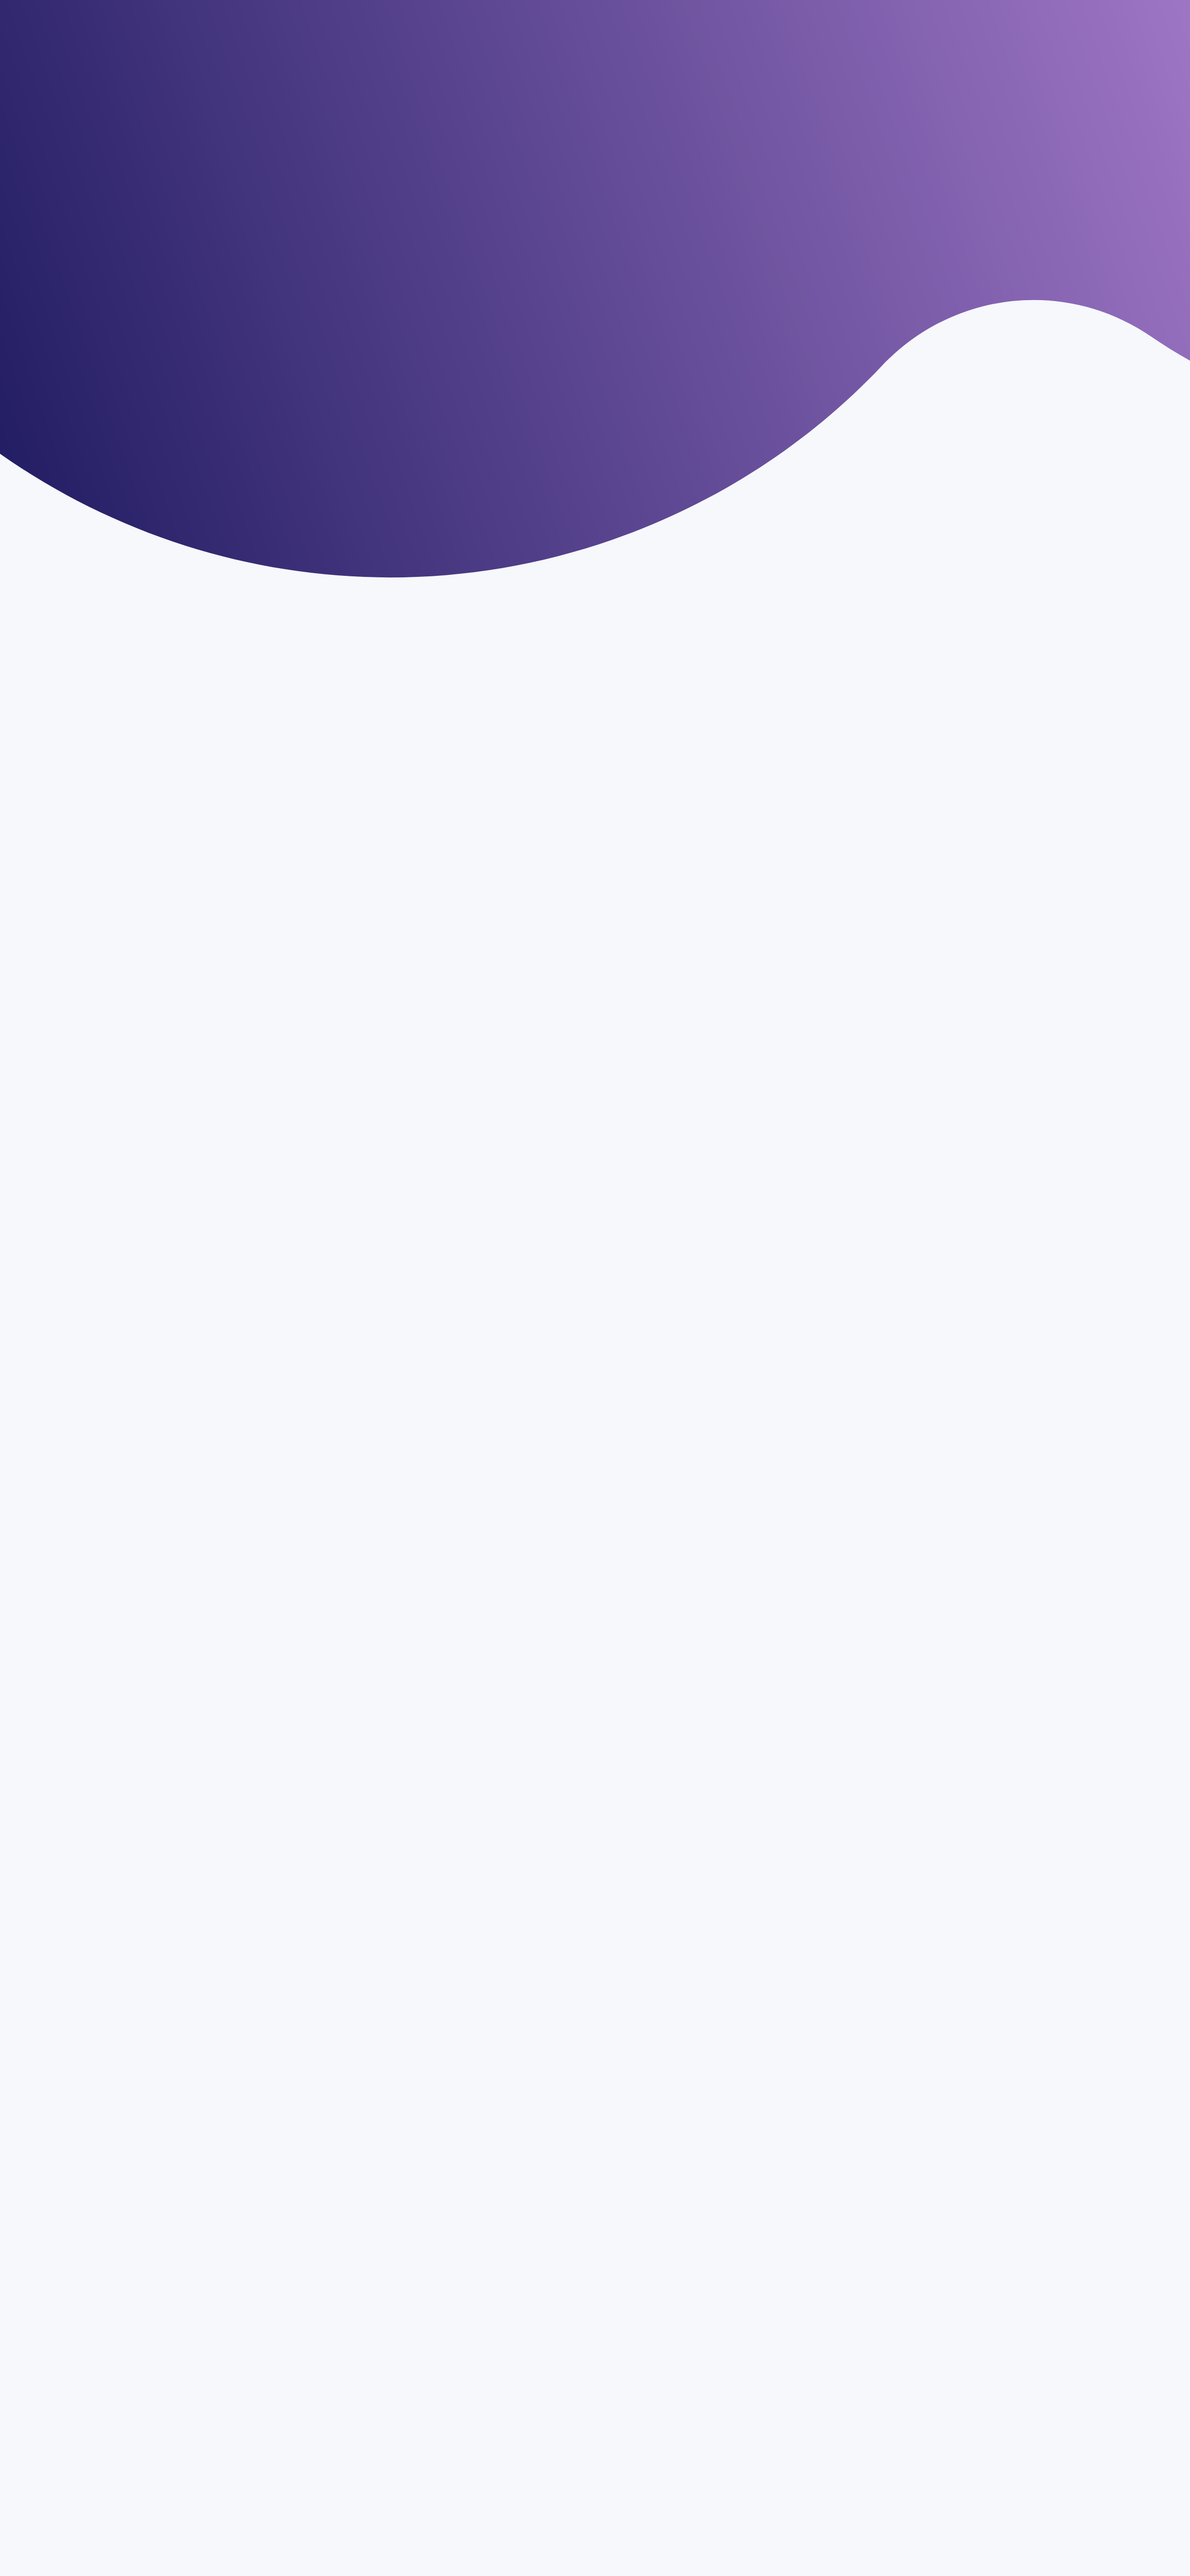
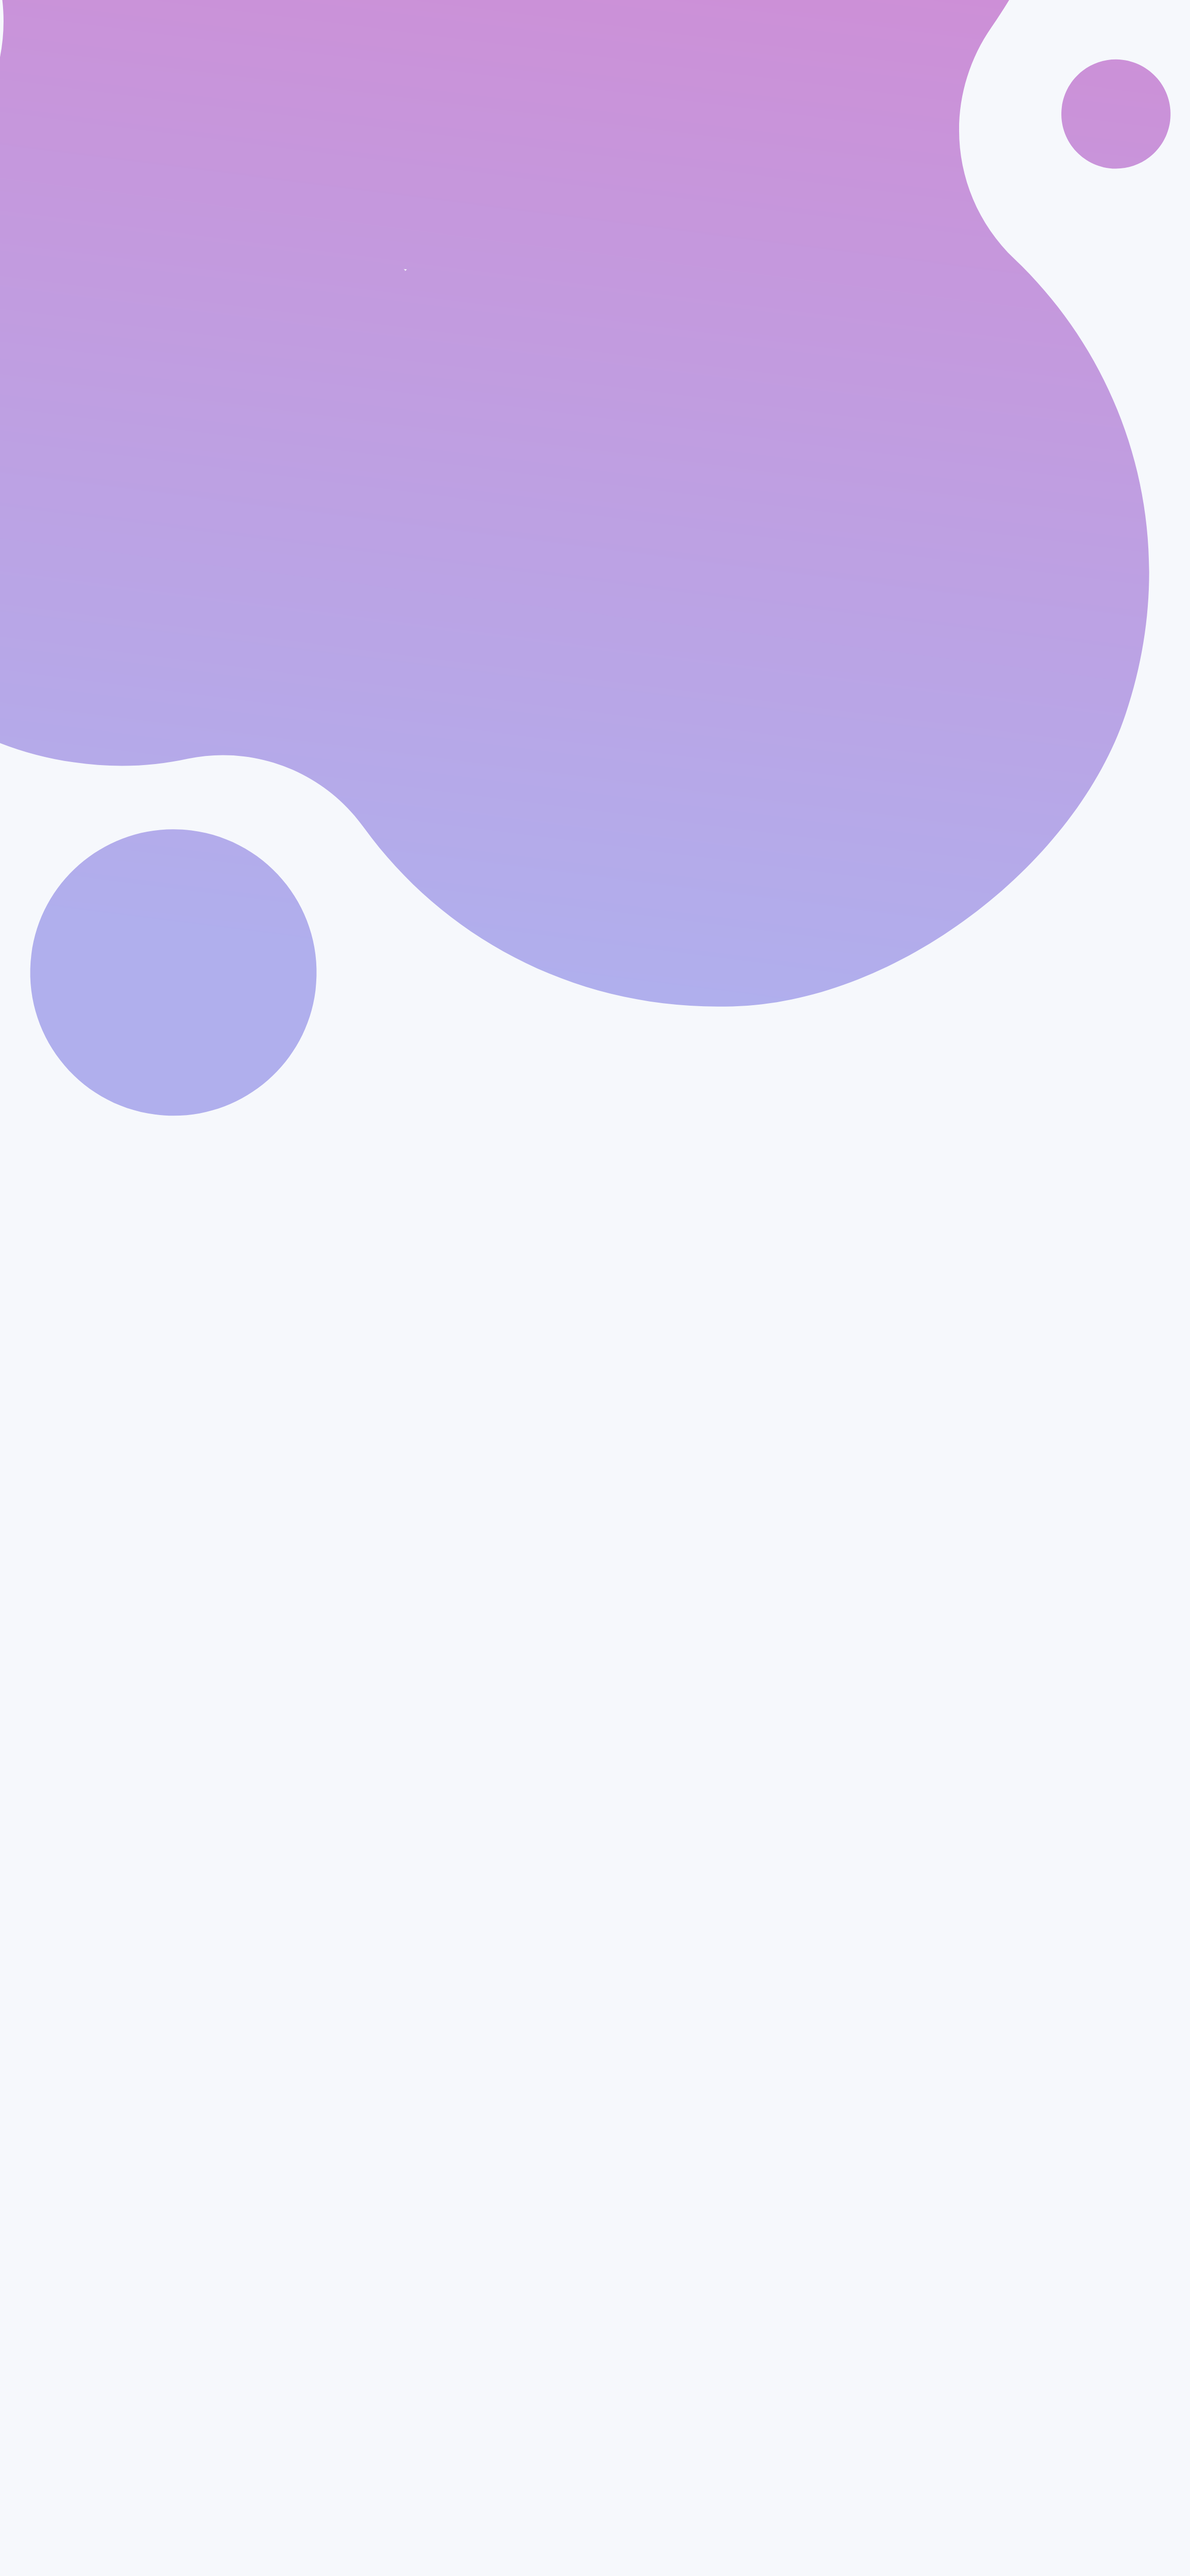
Added first name to user when registered

diff --git a/src/theme/variables.scss b/src/theme/variables.scss
@@ -52,12 +52,26 @@
   --ion-color-fourth-shade: #c1c0dd;
   --ion-color-fourth-tint: #dfdefb;
 
-  --ion-color-fifth: #ffc7e5;
-  --ion-color-fifth-rgb: 255, 199, 229;
-  --ion-color-fifth-contrast: #000000;
-  --ion-color-fifth-contrast-rgb: 0, 0, 0;
-  --ion-color-fifth-shade: #e0afca;
-  --ion-color-fifth-tint: #ffcde8;
+  --ion-color-light-pink: #ffc7e5;
+  --ion-color-light-pink-rgb: 255, 199, 229;
+  --ion-color-light-pink-contrast: #000000;
+  --ion-color-light-pink-contrast-rgb: 0, 0, 0;
+  --ion-color-light-pink-shade: #e0afca;
+  --ion-color-light-pink-tint: #ffcde8;
+
+  --ion-color-pink: #ce78cb;
+  --ion-color-pink-rgb: 206, 120, 203;
+  --ion-color-pink-contrast: #000000;
+  --ion-color-pink-contrast-rgb: 0, 0, 0;
+  --ion-color-pink-shade: #b56ab3;
+  --ion-color-pink-tint: #d386d0;
+
+  // --ion-color-pink: #f76db9;
+  // --ion-color-pink-rgb: 247, 109, 185;
+  // --ion-color-pink-contrast: #000000;
+  // --ion-color-pink-contrast-rgb: 0, 0, 0;
+  // --ion-color-pink-shade: #d960a3;
+  // --ion-color-pink-tint: #f87cc0;
 
   --ion-color-success: #67d083;
   --ion-color-success-rgb: 103, 208, 131;
@@ -136,6 +150,20 @@
     --ion-color-fourth-contrast-rgb: 0, 0, 0;
     --ion-color-fourth-shade: #e0d6c7;
     --ion-color-fourth-tint: #fff4e5;
+
+    --ion-color-light-pink: #ffc7e5;
+    --ion-color-light-pink-rgb: 255, 199, 229;
+    --ion-color-light-pink-contrast: #000000;
+    --ion-color-light-pink-contrast-rgb: 0, 0, 0;
+    --ion-color-light-pink-shade: #e0afca;
+    --ion-color-light-pink-tint: #ffcde8;
+
+    --ion-color-pink: #ce78cb;
+    --ion-color-pink-rgb: 206, 120, 203;
+    --ion-color-pink-contrast: #000000;
+    --ion-color-pink-contrast-rgb: 0, 0, 0;
+    --ion-color-pink-shade: #b56ab3;
+    --ion-color-pink-tint: #d386d0;
 
     --ion-color-success: #67d083;
     --ion-color-success-rgb: 103, 208, 131;

diff --git a/src/app/services/auth.service.ts b/src/app/services/auth.service.ts
@@ -7,6 +7,7 @@ import {
   signInWithEmailAndPassword,
   signInWithPopup,
   UserCredential,
+  updateProfile,
   signOut,
 } from '@angular/fire/auth';
 
@@ -22,36 +23,44 @@ export class AuthService {
     return signInWithPopup(this.auth, new GoogleAuthProvider());
   }
 
-  registerWithEmail(email: string, password: string): Promise<UserCredential> {
+  registerWithEmail(
+    email: string,
+    password: string,
+    name: string
+  ): Promise<UserCredential> {
     return createUserWithEmailAndPassword(
       this.auth,
       email.trim(),
       password.trim()
-    );
+    ).then((userCredential) => {
+      let user = this.getCurrentUser();
+      if (user) {
+        updateProfile(user, { displayName: name });
+      }
+      return userCredential;
+    });
   }
 
   loginWithEmail(email: string, password: string): Promise<UserCredential> {
     return signInWithEmailAndPassword(this.auth, email.trim(), password.trim());
   }
 
-  logout() {
+  logout(): Promise<void> {
     return signOut(this.auth);
   }
 
-  // async getCurrentUser() {
-  //   return await this.auth.currentUser;
-  // }
+  getCurrentUser() {
+    return this.auth.currentUser;
+  }
 
-  // async logOut() {
-  //   return await this.auth.signOut();
-  // }
+  getCurrentUserFirstName() {
+    let currentUser = this.auth.currentUser;
+    return currentUser?.displayName?.split(' ')[0];
+  }
 
-  // async registerWithEmail(data: any) {
-  //   return await this.auth.createUserWithEmailAndPassword(
-  //     data.email,
-  //     data.password
-  //   );
-  // }
+  getCurremtUserEmail() {
+    return this.auth.currentUser?.email;
+  }
 
   // async resetPassword(email: string) {
   //   return await this.auth.sendPasswordResetEmail(email);

diff --git a/src/app/tabs/my-workouts/my-workouts.page.scss b/src/app/tabs/my-workouts/my-workouts.page.scss
@@ -8,7 +8,7 @@ ion-content {
     justify-content: space-between; /* Align items horizontally, with space between them */
     align-items: center; /* Center items vertically */
     padding: 0 2rem; /* Add padding to the header container if needed */
-    margin-bottom: 1.5rem; /* Add margin to the bottom of the header */
+    margin-bottom: 0.5rem; /* Add margin to the bottom of the header */
     box-shadow: none;
   }
   overflow-x: hidden; /* Ensure horizontal overflow is hidden */
@@ -23,22 +23,23 @@ ion-content {
 
 ion-button[shape="circle"] {
   --border-radius: 50%;
-  width: 56px;
-  height: 56px;
+  width: 54px;
+  height: 54px;
   border-radius: 50%;
-  box-shadow: 0 0 10px 5px rgba(255, 255, 255, 0.5);
+  --background: var(--ion-color-pink);
+  opacity: 0.7;
   ion-icon {
-    transform: scale(1.8);
+    transform: scale(2.2);
   }
 }
 
 div.title {
   display: grid;
-  margin-top: 2.5rem;
+  margin-top: 2.3rem;
   //padding-left: 10%;
   ion-text {
     color: #fff;
-    font-size: 2.5rem;
+    font-size: 2.3rem;
     font-weight: 800;
   }
 }
@@ -51,5 +52,12 @@ ion-row.srch {
   ion-searchbar {
     --background: #fff;
     --border-radius: 10px;
+  }
+  ion-button {
+    height: 3rem;
+    --border-radius: 10px;
+    ion-icon {
+      transform: scale(1.2);
+    }
   }
 }

diff --git a/src/app/auth/register/register.page.ts b/src/app/auth/register/register.page.ts
@@ -17,7 +17,7 @@ import {
 import { Router, RouterModule } from '@angular/router';
 import { addIcons } from 'ionicons';
 import { keyOutline, mailOutline, personOutline } from 'ionicons/icons';
-import { AuthService } from '../auth.service';
+import { AuthService } from '../../services/auth.service';
 
 @Component({
   selector: 'app-register',
@@ -49,7 +49,7 @@ export class RegisterPage {
     this.form = new FormGroup({
       email: new FormControl('', [Validators.required, Validators.email]),
       password: new FormControl('', [Validators.required]),
-      username: new FormControl('', [Validators.required]),
+      name: new FormControl('', [Validators.required]),
     });
   }
 
@@ -60,13 +60,14 @@ export class RegisterPage {
     }
     this.register(
       this.form.controls['email'].value,
-      this.form.controls['password'].value
+      this.form.controls['password'].value,
+      this.form.controls['name'].value
     );
   }
 
-  register(email: string, password: string) {
+  register(email: string, password: string, name: string) {
     this.authService
-      .registerWithEmail(email, password)
+      .registerWithEmail(email, password, name)
       .then((res) => {
         console.log(res);
         alert('You succesfully registered!');

diff --git a/src/app/tabs/account/account.page.ts b/src/app/tabs/account/account.page.ts
@@ -15,7 +15,9 @@ import {
 } from '@ionic/angular/standalone';
 import { addIcons } from 'ionicons';
 import { exitOutline } from 'ionicons/icons';
-import { AuthService } from 'src/app/auth/auth.service';
+import { AuthService } from 'src/app/services/auth.service';
+import { Router } from '@angular/router';
+import { User } from 'firebase/auth';
 
 @Component({
   selector: 'app-account',
@@ -38,11 +40,27 @@ import { AuthService } from 'src/app/auth/auth.service';
   ],
 })
 export class AccountPage implements OnInit {
-  constructor(public authService: AuthService) {
+  firstName: string | undefined;
+  email: string | null | undefined;
+
+  constructor(public authService: AuthService, public router: Router) {
     addIcons({ exitOutline });
+    this.firstName = this.authService.getCurrentUserFirstName();
+    this.email = this.authService.getCurremtUserEmail();
   }
 
   ngOnInit() {}
 
-  onLogout() {}
+  onLogout() {
+    this.authService
+      .logout()
+      .then((res) => {
+        console.log(res);
+        this.router.navigateByUrl('/login', { replaceUrl: true });
+      })
+      .catch((error) => {
+        alert(error.message);
+        console.log(error);
+      });
+  }
 }

diff --git a/src/app/auth/login/login.page.ts b/src/app/auth/login/login.page.ts
@@ -17,7 +17,7 @@ import {
 } from '@ionic/angular/standalone';
 import { addIcons } from 'ionicons';
 import { mailOutline, keyOutline, logoGoogle } from 'ionicons/icons';
-import { AuthService } from '../auth.service';
+import { AuthService } from '../../services/auth.service';
 
 @Component({
   selector: 'app-login',
@@ -68,7 +68,7 @@ export class LoginPage {
       .loginWithEmail(email, password)
       .then((res) => {
         console.log(res);
-        this.router.navigate(['/tabs']);
+        this.router.navigateByUrl('/tabs', { replaceUrl: true });
       })
       .catch((error) => {
         alert(error.message);
@@ -81,7 +81,7 @@ export class LoginPage {
       .loginWithGoogle()
       .then((res) => {
         console.log(res);
-        this.router.navigate(['/tabs']);
+        this.router.navigateByUrl('/tabs', { replaceUrl: true });
       })
       .catch((error) => {
         alert(error.message);

diff --git a/src/app/tabs/explore/explore.page.ts b/src/app/tabs/explore/explore.page.ts
@@ -22,6 +22,7 @@ import {
 import { IonicSlides } from '@ionic/angular';
 import { addIcons } from 'ionicons';
 import { options, shareSocialOutline } from 'ionicons/icons';
+import { AuthService } from 'src/app/services/auth.service';
 
 @Component({
   selector: 'app-explore',
@@ -54,9 +55,13 @@ export class ExplorePage implements OnInit {
   swiperModules = [IonicSlides];
   popular: any[] = [];
   recent: any[] = [];
+  firstName: string | undefined;
+  email: string | null | undefined;
 
-  constructor() {
+  constructor(public authService: AuthService) {
     addIcons({ options, shareSocialOutline });
+    this.firstName = this.authService.getCurrentUserFirstName();
+    this.email = this.authService.getCurremtUserEmail();
   }
 
   ngOnInit() {

diff --git a/src/app/tabs/account/account.page.html b/src/app/tabs/account/account.page.html
@@ -2,15 +2,15 @@
   <div class="accountCard">
     <img class="profilePic" src="https://source.boringavatars.com/" />
     <ion-item lines="none">
-      <ion-label class="username">Jovana</ion-label>
+      <ion-label class="username">{{firstName}}</ion-label>
     </ion-item>
     <ion-item lines="none">
-      <ion-label class="email">email&#64;example.com</ion-label>
+      <ion-label class="email">{{email}}</ion-label>
     </ion-item>
 
     <img class="line" src="/assets/imgs/line.png" />
 
-    <ion-chip class="logout" (clik)="onLogout()">
+    <ion-chip class="logout" (click)="onLogout()">
       <ion-icon color="primary" name="exit-outline"></ion-icon>
       <ion-label>Log out</ion-label>
     </ion-chip>

diff --git a/src/app/auth/register/register.page.html b/src/app/auth/register/register.page.html
@@ -13,11 +13,11 @@
         <ion-input
           labelPlacement="floating"
           type="text"
-          formControlName="username"
-          placeholder="Enter username"
-          errorText="* You have to enter username"
+          formControlName="name"
+          placeholder="Enter your first name"
+          errorText="* You have to enter your first name"
         >
-          <div slot="label">Username <ion-text color="danger">*</ion-text></div>
+          <div slot="label">Name <ion-text color="danger">*</ion-text></div>
         </ion-input>
       </ion-item>
 

diff --git a/src/app/tabs/my-workouts/my-workouts.page.html b/src/app/tabs/my-workouts/my-workouts.page.html
@@ -4,10 +4,6 @@
       <ion-text> My </ion-text>
       <ion-text> Workouts </ion-text>
     </div>
-
-    <ion-button shape="circle" (click)="openAddWorkoutModal()">
-      <ion-icon name="add-outline"></ion-icon>
-    </ion-button>
   </ion-header>
 
   <ion-row class="srch">
@@ -23,4 +19,8 @@
       </ion-button>
     </ion-col>
   </ion-row>
+
+  <ion-button shape="circle" (click)="openAddWorkoutModal()">
+    <ion-icon name="add-outline"></ion-icon>
+  </ion-button>
 </ion-content>

diff --git a/src/app/tabs/explore/explore.page.html b/src/app/tabs/explore/explore.page.html
@@ -4,7 +4,7 @@
       <ion-col size="6" class="left">
         <div class="avatar-text-wrapper">
           <img src="https://source.boringavatars.com/" />
-          <ion-text>Hi, Jovana</ion-text>
+          <ion-text>Hi, {{firstName}}</ion-text>
           <ion-text class="wave">👋</ion-text>
         </div>
         <div class="title">

diff --git a/src/app/tabs/tabs.page.scss b/src/app/tabs/tabs.page.scss
@@ -8,7 +8,7 @@ ion-tab-bar {
     --color: var(--ion-color-dark);
     --color-selected: var(--ion-color-light);
     ion-icon {
-      font-size: 1.3rem;
+      transform: scale(0.95);
     }
   }
 }
